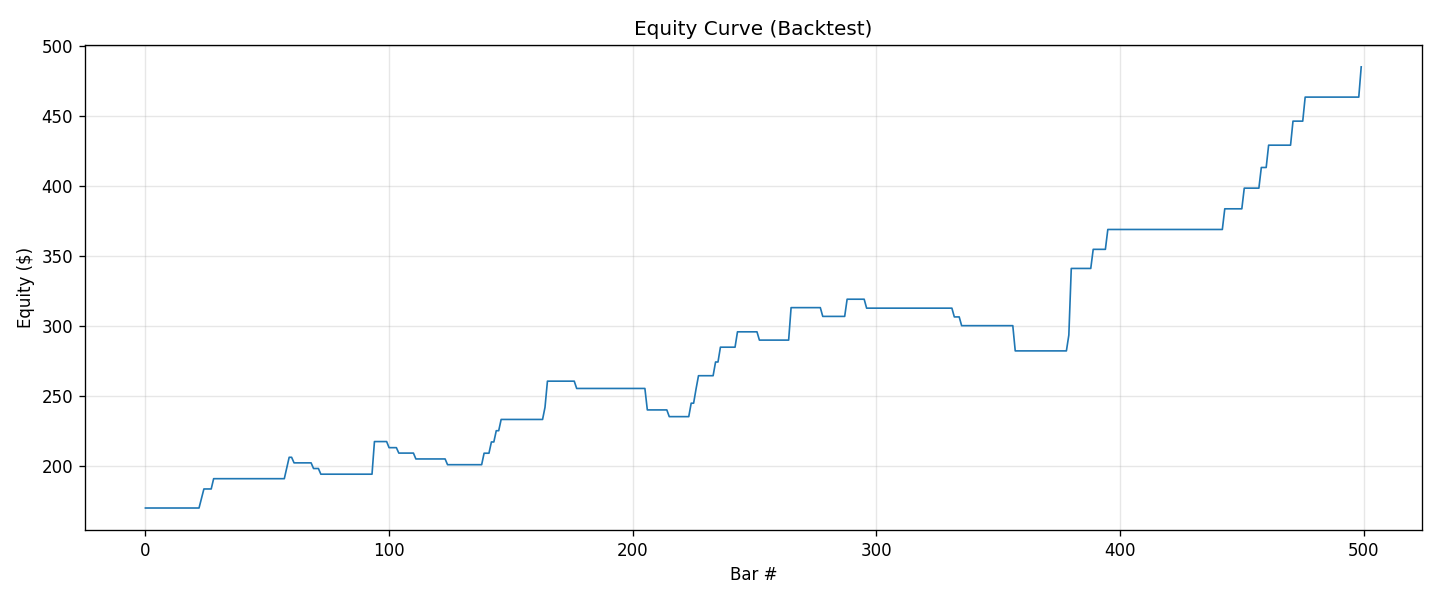
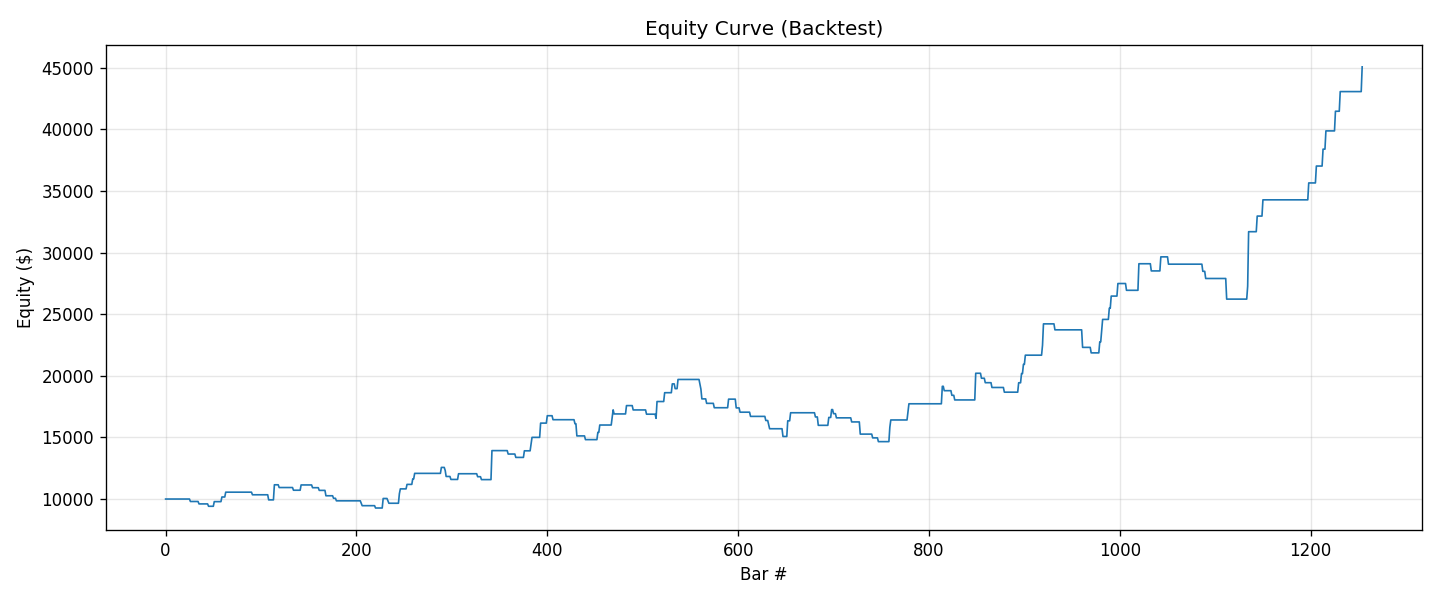
Went down to 50%

diff --git a/config.py b/config.py
@@ -28,7 +28,7 @@ USE_FRACTIONAL: bool = True         # Alpaca supports fractional shares
 
 # ── Data Settings ─────────────────────────────────────────────
 DATA_DIR: Path         = ROOT_DIR / "data"
-LOOKBACK_YEARS: int    = 2          # years of daily history to download (from 2024)
+LOOKBACK_YEARS: int    = 5          # years of daily history to download (from 2024)
 TIMEFRAME: str         = "1d"       # candle granularity
 
 # ── Strategy Parameters ───────────────────────────────────────

diff --git a/backtest.py b/backtest.py
@@ -30,7 +30,7 @@ from logger import get_logger
 
 log = get_logger("backtest")
 
-INITIAL_EQUITY = 170.0                  # default paper capital ($170)
+INITIAL_EQUITY = 10000.0                  # default paper capital ($170)
 
 
 # ── Trade record ──────────────────────────────────────────────
